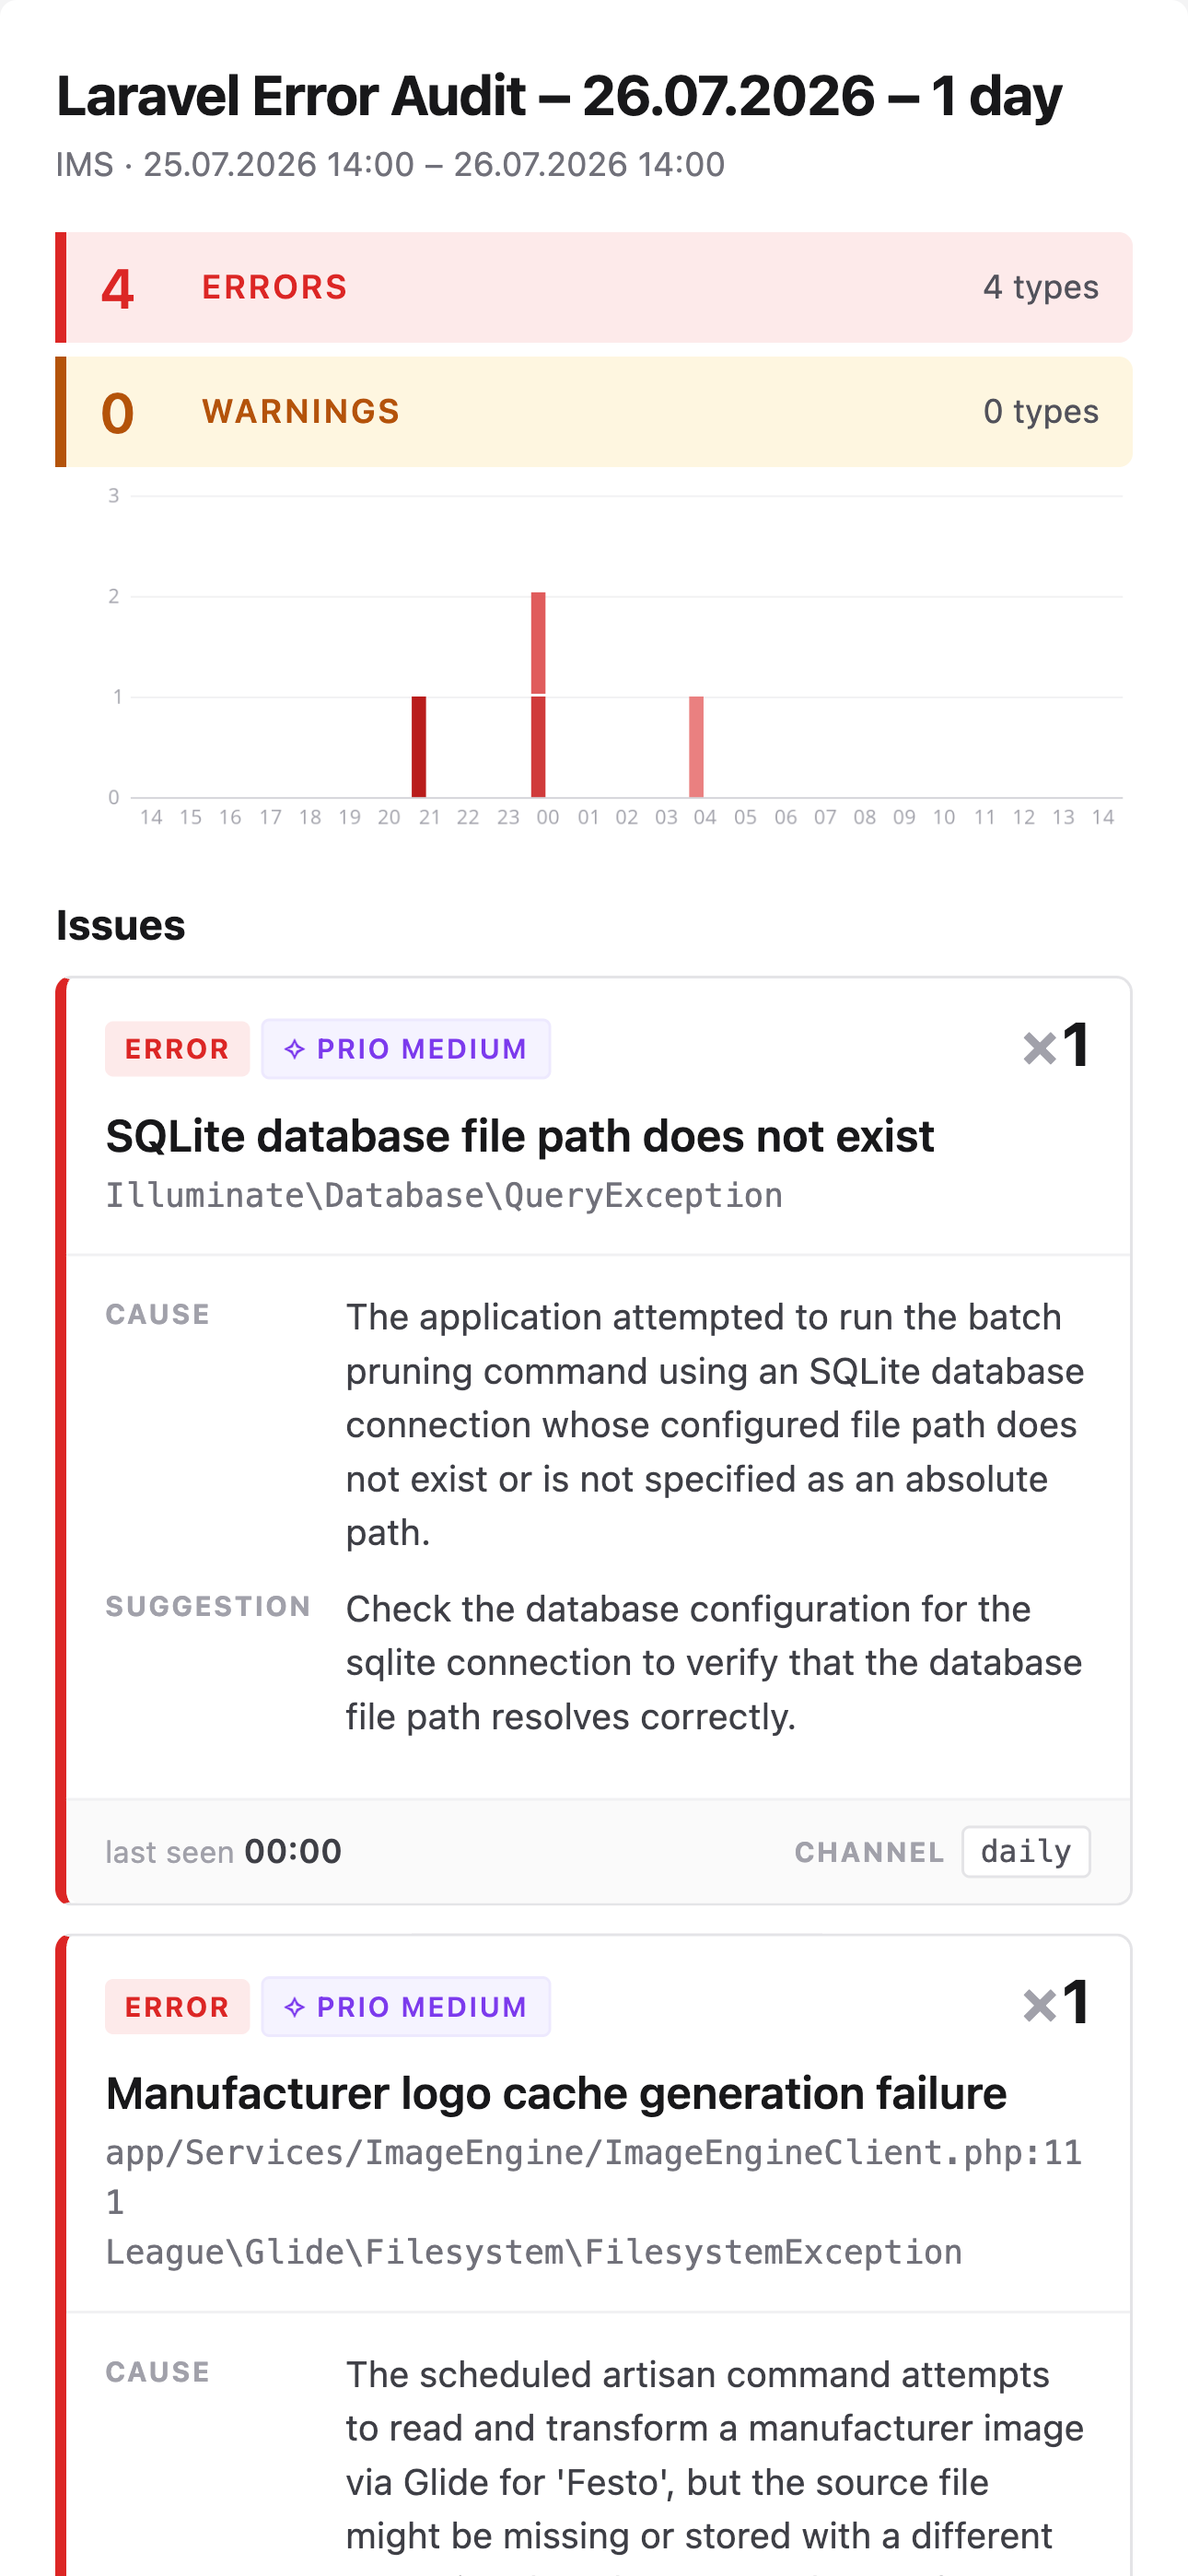
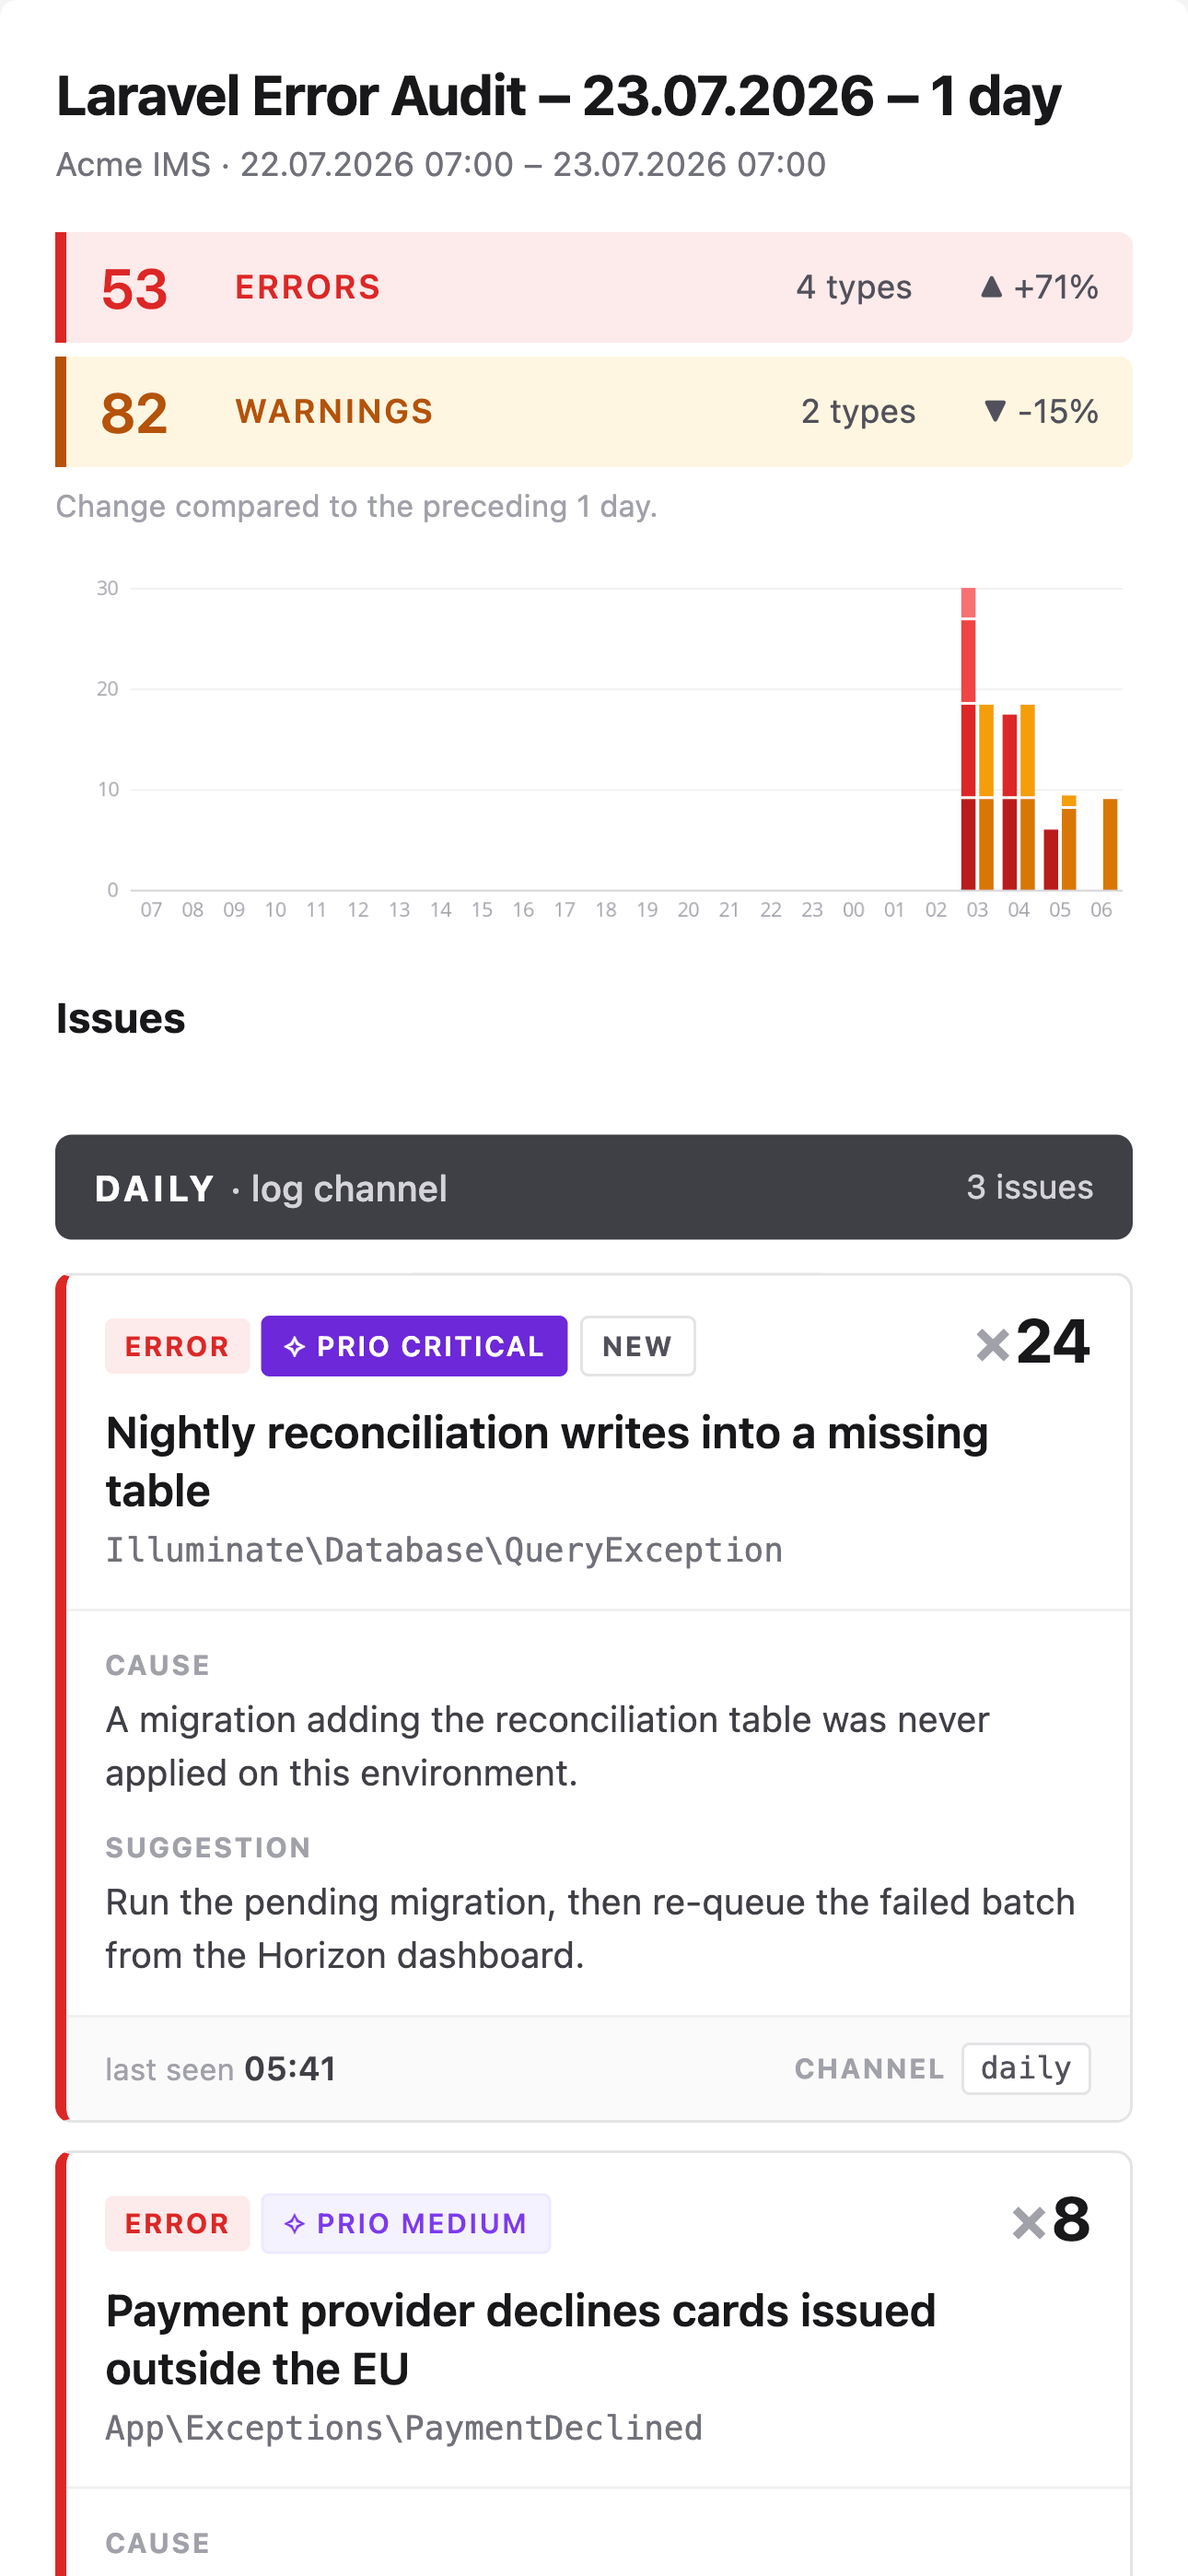
Release v1.6.1
Updated docs screenshot; .DS_Store files untracked and ignored.

diff --git a/CHANGELOG.md b/CHANGELOG.md
@@ -2,7 +2,7 @@
 
 All notable changes to `aaix/laravel-error-audit` are documented here.
 
-## [Unreleased]
+## [1.6.1] - 2026-07-27
 
 ### Changed
 
